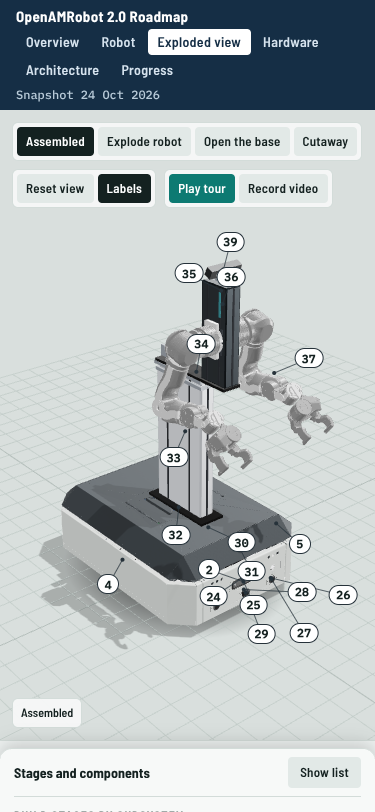
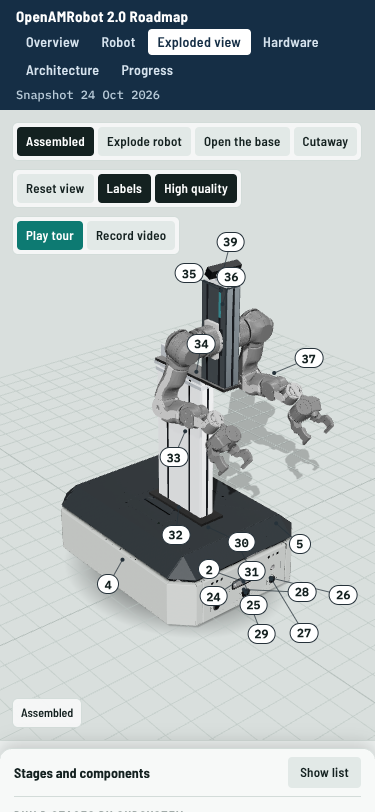
evidence: colour calibration, light look, preview pictures
Colour samples of the lit side panel, cover and arm profile before and
after the calibration (exploded assembled view, robot page Side and
Overview presets), frame times of the full and the light look, probe and
toggle test, nine 1920 x 1080 preview pictures and a labelled contact
sheet, after screenshots and geometry check rerun with the calibrated
look. check_roadmap.py requires the calibrated look and the light-look
fallback on both pages.

Claude-Session: https://claude.ai/code/session_01VFnEBRJPA4A3dgj7YTaLKh

Changed region(s): [[0.088, 0.3079, 0.88, 0.8005], [0.0293, 0.1847, 0.9093, 0.3387]]

diff --git a/evidence/2026-10-26-shared-model/looktest.js b/evidence/2026-10-26-shared-model/looktest.js
@@ -1,0 +1,26 @@
+const { chromium } = require('playwright');
+(async () => {
+  const port = process.argv[2];
+  const b = await chromium.launch({args: ['--use-angle=swiftshader', '--enable-unsafe-swiftshader', '--ignore-gpu-blocklist']});
+  const res = {};
+  for (const [page, w] of [['exploded.html', 1280], ['exploded.html', 375], ['robot.html', 1280], ['robot.html', 375]]) {
+    const p = await b.newPage({viewport: {width: w, height: 800}}); p.setDefaultTimeout(600000);
+    const msgs = []; p.on('console', m => { if (m.type() === 'error' || m.type() === 'warning') msgs.push(m.text()); }); p.on('pageerror', e => msgs.push(e.message));
+    await p.goto(`http://localhost:${port}/${page}`, {waitUntil: 'domcontentloaded'});
+    await p.waitForFunction(() => window.OAMR_LOOK && window.OAMR_LOOK.lastProbeMs !== undefined, null, {timeout: 600000});
+    const st = await p.evaluate(() => ({probeMs: +window.OAMR_LOOK.lastProbeMs.toFixed(1), light: window.OAMR_LOOK.isLight(),
+      hq: (document.getElementById('b-hq') || document.getElementById('b-q')).outerHTML.slice(0, 80), sw: document.documentElement.scrollWidth}));
+    if (page === 'exploded.html' && w === 1280) {  // toggle back to full and to light again
+      await p.click('#b-hq'); st.afterClick1 = await p.evaluate(() => [window.OAMR_LOOK.isLight(), document.getElementById('b-hq').getAttribute('aria-pressed')]);
+      await p.click('#b-hq'); st.afterClick2 = await p.evaluate(() => [window.OAMR_LOOK.isLight(), document.getElementById('b-hq').getAttribute('aria-pressed')]);
+    }
+    if (page === 'robot.html' && w === 1280) {
+      await p.click('#b-q'); st.afterClick1 = await p.evaluate(() => [window.OAMR_LOOK.isLight(), window.__sim.S.hq]);
+      await p.click('#b-q'); st.afterClick2 = await p.evaluate(() => [window.OAMR_LOOK.isLight(), window.__sim.S.hq]);
+    }
+    await p.waitForTimeout(3000);
+    res[page + '@' + w] = Object.assign(st, {msgs});
+    await p.close();
+  }
+  console.log(JSON.stringify(res, null, 1)); await b.close();
+})();

diff --git a/evidence/2026-10-26-shared-model/preview.js b/evidence/2026-10-26-shared-model/preview.js
@@ -7,10 +7,10 @@ const fs = require('fs');
 const UPPER = ['lift_column', 'adapter_plate', 'arm_profile', 'slot_cover_strips', 'openarm', 'head_camera', 'head_camera_bracket'];
 const BASE_LABELS = ['battery', 'motor_driver', 'compute', 'base_controller', 'imu', 'lidar', 'base_camera', 'ultrasonic', 'tof'];
 const SHOTS = [
-  ['01_assembled_front_three_quarter', {frame: 'robot', az: -40, el: 18}],
-  ['02_assembled_rear_three_quarter', {frame: 'robot', az: 140, el: 20}],
-  ['03_base_close_up_front_three_quarter', {frame: 'base', az: -35, el: 20, min_r: .3}],
-  ['04_upper_body_close_up', {frame: UPPER, az: -32, el: 10, min_r: .25}],
+  ['01_assembled_front_three_quarter', {frame: 'robot', az: -40, el: 16, zoom: .82}],
+  ['02_assembled_rear_three_quarter', {frame: 'robot', az: 140, el: 18, zoom: .82}],
+  ['03_base_close_up_front_three_quarter', {frame: 'base', az: -35, el: 5, min_r: .3, zoom: .85}],
+  ['04_upper_body_close_up', {frame: ['arm_profile', 'openarm', 'head_camera', 'head_camera_bracket', 'adapter_plate'], az: -28, el: 12, min_r: .25, zoom: .9}],
   ['05_exploded_explode_robot', {frame: 'robot', r: 1, az: -40, el: 18}],
   ['06_exploded_open_base_labels', {frame: 'base', b: 1, az: -40, el: 26, labels: BASE_LABELS, names: true}],
 ];

diff --git a/scripts/check_roadmap.py b/scripts/check_roadmap.py
@@ -22,7 +22,8 @@ parses them and fails when:
   three.js core, or a three.js script other than model/three-r160.min.js and,
   on robot.html only, the store addons model/three-r160-store.min.js), robot
   geometry or robot materials of their own (anything but one call of
-  OAMR_MODEL.build), or a renderer look other than model/look.js; or
+  OAMR_MODEL.build), or a renderer look other than model/look.js (calibration,
+  light-look fallback and its frame probe included); or
   model/finish.json names an unknown material class or part;
 - the exploded view lacks a control (explode robot, open the base, cutaway,
   tour, pause, stop, record), its opened-base offsets, labels, view settings
@@ -422,6 +423,9 @@ def check_shared(root, html, err):
                 err(p, "renderer look set in the page (%s); it belongs in model/look.js" % m.group(0))
         if not re.search(r"(?:OAMR_)?LOOK\.apply\(", inline) or not re.search(r"(?:OAMR_)?LOOK\.environment\(", inline):
             err(p, "must take tone mapping, colour output, shadows and environment from model/look.js")
+        for call in ("CAL", "robotEnv(", "lightLook(", "startProbe(", "forced("):
+            if call not in inline:
+                err(p, "must use the calibrated look and the light-look fallback of model/look.js (%s)" % call.rstrip("("))
     for f in [THREE_CORE] + THREE_ADDONS["robot.html"]:
         if not os.path.isfile(os.path.join(root, f)):
             err("model", "%s is missing" % f)

diff --git a/evidence/2026-10-26-shared-model/README.md b/evidence/2026-10-26-shared-model/README.md
@@ -1,5 +1,8 @@
 # One shared robot model and physically based materials, step 1: evidence (26 Oct 2026)
 
+Updated after review: colour calibration, light-look fallback, preview pictures (sections below). The
+screenshots marked after and the geometry check were rerun after the calibration (full look).
+
 Evidence for the shared robot model of `docs/assets/roadmap/robot.html` (dark-store page) and
 `docs/assets/roadmap/exploded.html`: one three.js, one robot builder, one material system, one look.
 Visualization only; not mechanical, electrical or safety evidence. Base: `5981e3b` (main after #56).
@@ -88,6 +91,77 @@ image, so the pipeline matches. Robot page: the 3D stage after the Overview and 
 Console at 375 and 1280 px, both pages, before and after: no errors, no warnings, no failed requests,
 no horizontal scroll (scrollWidth equal to the viewport width).
 
+## Colour calibration (follow-up 1)
+
+The first version of the look washed out the finish (RAL 7035 panels near white, RAL 7016 cover mid-grey).
+`model/look.js` now calibrates per page (`OAMR_LOOK.CAL`):
+
+| Page | Exposure | Key light | Environment, dielectric classes | Environment, metal and glass classes |
+|---|---|---|---|---|
+| exploded.html | 1.2 (was 0.9) | 2.8, moved to the camera side, front right above, about 55 degrees from the front, side and top faces (was 1.6, front left) | 0.14 (was 1) | 1.3 (was 1) |
+| robot.html | 1.05 (unchanged, so the store look is unchanged) | the store lights, unchanged | 0.08 (was 1) | 1.3 (was 1) |
+
+Shadows, contact shadow and material classes are unchanged. `colour.js` with `colour_sampler.js`: the
+page's own frame, a part-ID pass and a normal pass of the same camera; pixels of the part whose 5 x 5
+neighbourhood is the same part, whose face points to the key light (n . L > 0.35) and to the camera;
+median sRGB per part. Exploded view: render mode frame 0 (assembled), 1280 x 720, key direction of the
+calibrated light for both states (so the same pixels are compared). Robot page: `?look=full`, 1280 x 800,
+camera tiles off, the store key light. Luma difference to the finish.json sRGB value (Rec. 709 weights on
+sRGB values); largest single-channel difference in brackets. Before: branch head `b28a92f`.
+
+| View | Part (finish.json sRGB) | Pixels | Before: median sRGB, luma | After: median sRGB, luma |
+|---|---|---|---|---|
+| exploded, assembled | side panel (`#CBD0CC`, 203 208 204) | 10,740 | 182 185 183, -10.9 % (11.1) | 192 195 192, **-6.1 %** (6.3) |
+| exploded, assembled | cover (`#383E42`, 56 62 66) | 13,439 | 113 117 121, +90.8 % (101.8) | 54 59 63, **-4.6 %** (4.8) |
+| exploded, assembled | arm profile (`#383E42`) | 4,612 | 33 37 40, -40.4 % (41.1) | 56 62 67, **+0.1 %** (1.5) |
+| robot page, Side preset | arm profile (`#383E42`) | 333 | 48 53 56, -14.5 % (15.2) | 53 59 62, **-5.0 %** (6.1) |
+| robot page, Side preset | side panel, cover | 0 | not in view (the preset frames the upper body) | not in view |
+| robot page, Overview preset | side panel (`#CBD0CC`) | 78 | 228 229 227, +10.6 % (12.3) | 186 187 180, **-9.9 %** (11.8) |
+| robot page, Overview preset | cover (`#383E42`) | 18,559 | 124 130 133, +111.3 % (121.4) | 64 67 67, **+8.8 %** (14.3) |
+| robot page, Overview preset | arm profile (`#383E42`) | 212 | 49 53 55, -14.3 % (16.7) | 56 61 63, **-1.5 %** (4.5) |
+
+All lit faces are within 10 % in luma. On the robot page the store lights are warm (area lights `#FFF5E8`),
+so the cover reads 14 % high in red; the side panel shows only 78 pixels in the Overview preset.
+
+## Light look fallback (follow-up 2)
+
+`OAMR_LOOK.lightLook`: the robot materials of the metal and glass classes (anodised aluminium, heatsink,
+sensor glass) keep the environment; the others switch to Lambert twins (same colour, map, vertex colours,
+opacity; no image-based light); robot shadows off; the contact shadow stays. exploded.html also turns its
+shadow map off, hides the shadow catcher and adds a hemisphere light for the non-metal parts.
+
+| Page | Switches to the light look | Back to the full look |
+|---|---|---|
+| exploded.html | new "High quality" toggle off; or the first 30 frames (rendered every frame while probing) average over 33 ms and the toggle was not used | toggle on |
+| robot.html | existing "High quality" toggle off (it also turns GTAO off, as before); or the first 30 frames average over 33 ms (the toggle then stays as it was) | toggle on |
+
+`?look=full` or `?look=light` forces a look and skips the probe; the exploded render mode (videos,
+previews) is always the full look unless `look=light` is given. Default: the full look.
+`looktest.js` on SwiftShader: exploded.html probe 296.7 ms (1280 px) and 287.2 ms (375 px), robot.html
+12,690 ms and 1,135 ms: all four switched to the light look; the toggles switch back and forth as listed;
+no console errors or warnings; no horizontal scroll.
+
+## Preview pictures (follow-up 3)
+
+`preview.js`, 1920 x 1080, page UI hidden, full look (calibrated) unless noted. Exploded-view pictures
+from the render mode (`exploded.html?render=1`, `window.__renderKey` with a pose written like a tour
+keyframe; the wordmark of the render mode stays); robot-page pictures from `robot.html?look=full` with
+everything but the 3D canvas hidden. 07, 08 and the contact sheet are palette-reduced (256 colours) to
+stay under the 1 MB image limit of `scripts/check_docs.sh`.
+
+| File | Picture |
+|---|---|
+| `preview/01_assembled_front_three_quarter.png` | robot assembled, front three-quarter, whole robot |
+| `preview/02_assembled_rear_three_quarter.png` | robot assembled, rear three-quarter |
+| `preview/03_base_close_up_front_three_quarter.png` | base close-up, front three-quarter (panels, cover, sensors, wheels and castors) |
+| `preview/04_upper_body_close_up.png` | upper body: lift column, adapter plate, arm profile with the cyan strips, arms, head camera |
+| `preview/05_exploded_explode_robot.png` | exploded view, Explode robot |
+| `preview/06_exploded_open_base_labels.png` | exploded view, Open the base, name labels |
+| `preview/07_robot_page_side_dark_store.png` | robot page, Side preset, dark store |
+| `preview/08_robot_page_overview_dark_store.png` | robot page, Overview preset, dark store |
+| `preview/09_light_look_assembled_front_three_quarter.png` | light look (fallback), same pose as 01 |
+| `preview/contact_sheet.png` | all nine, labelled |
+
 ## Performance
 
 `perf.js`: same machine (4 vCPU container, no GPU, SwiftShader), 1280 x 800, median of 30 renders after
@@ -98,6 +172,17 @@ no horizontal scroll (scrollWidth equal to the viewport width).
 | exploded.html, parts moving (tour frames, shadow map updated) | 343, 380 ms | 1134, 1039 ms | +231 %, +173 % |
 | exploded.html, camera only (orbit) | 152, 176 ms | 531, 520 ms | +249 %, +195 % |
 | robot.html, store scene, high quality (GTAO, camera tiles) | 19,695, 18,546 ms | 18,843, 18,374 ms | -4 %, -1 % |
+
+After the calibration, both looks (`perf.js 8802 full`, `perf.js 8802 light`, one round each):
+
+| Frame | #56 (rounds 1, 2) | Full look | Light look |
+|---|---|---|---|
+| exploded.html, parts moving | 343, 380 ms | 1,183 ms (+211 to +245 %) | 290 ms (-15 to -24 %) |
+| exploded.html, orbit | 152, 176 ms | 514 ms (+192 to +238 %) | 135 ms (-11 to -23 %) |
+| robot.html, store, high quality | 19,695, 18,546 ms | 18,867 ms (-4 %, +2 %) | 17,410 ms (-12 %, -6 %) |
+
+The light look is within the budget (faster than #56); the full look is not, on this CPU rasteriser. On a
+device that slow the probe selects the light look (it did on SwiftShader, 287 to 297 ms per frame).
 
 **The 10 % budget is not met on exploded.html on this machine.** Breakdown of one exploded frame
 after (`prof*.js` runs, same set-up): 1,020 to 1,084 ms with everything; without shadows 848 to 863 ms;
@@ -131,13 +216,19 @@ python3 linkcheck.py site                             # 34,571 local links, 0 mi
 node geomcheck.js 8800 8802 geomtest.html gx          # exploded: 132/132 meshes, 0 differing pixels
 node geomcheck.js 8800 8802 robot.html gr             # robot: 203/203 meshes, 0 differing pixels
 node perf.js 8800; node perf.js 8802                  # two rounds each
+node perf.js 8802 full; node perf.js 8802 light       # after the calibration
+node colour.js 8803 exploded; node colour.js 8802 exploded   # colour samples (8803: branch head b28a92f)
+node colour.js 8802 robot '[{}]' side; node colour.js 8802 robot '[{}]' over
+node looktest.js 8802                                  # probe and toggles
+node preview.js 8802 preview                           # preview pictures
 ```
 
 Ports: 8800 serves the #56 roadmap folder, 8802 this change (`python3 -m http.server`).
 
 ## Not verified
 
-- Frame time on a GPU; the budget result above is SwiftShader only.
+- Frame time on a GPU, and how many real devices the 33 ms probe sends to the light look; SwiftShader only.
+- Colour on calibrated displays; the samples are sRGB values of the rendered frame.
 - The offline link check ran with a Python equivalent, not lychee (the CI step runs lychee).
 - The tour videos, posters and `model/exploded-static.png` still show the #56 look; not re-rendered in this step.
 - Visual review on real displays and browsers other than headless Chromium.
